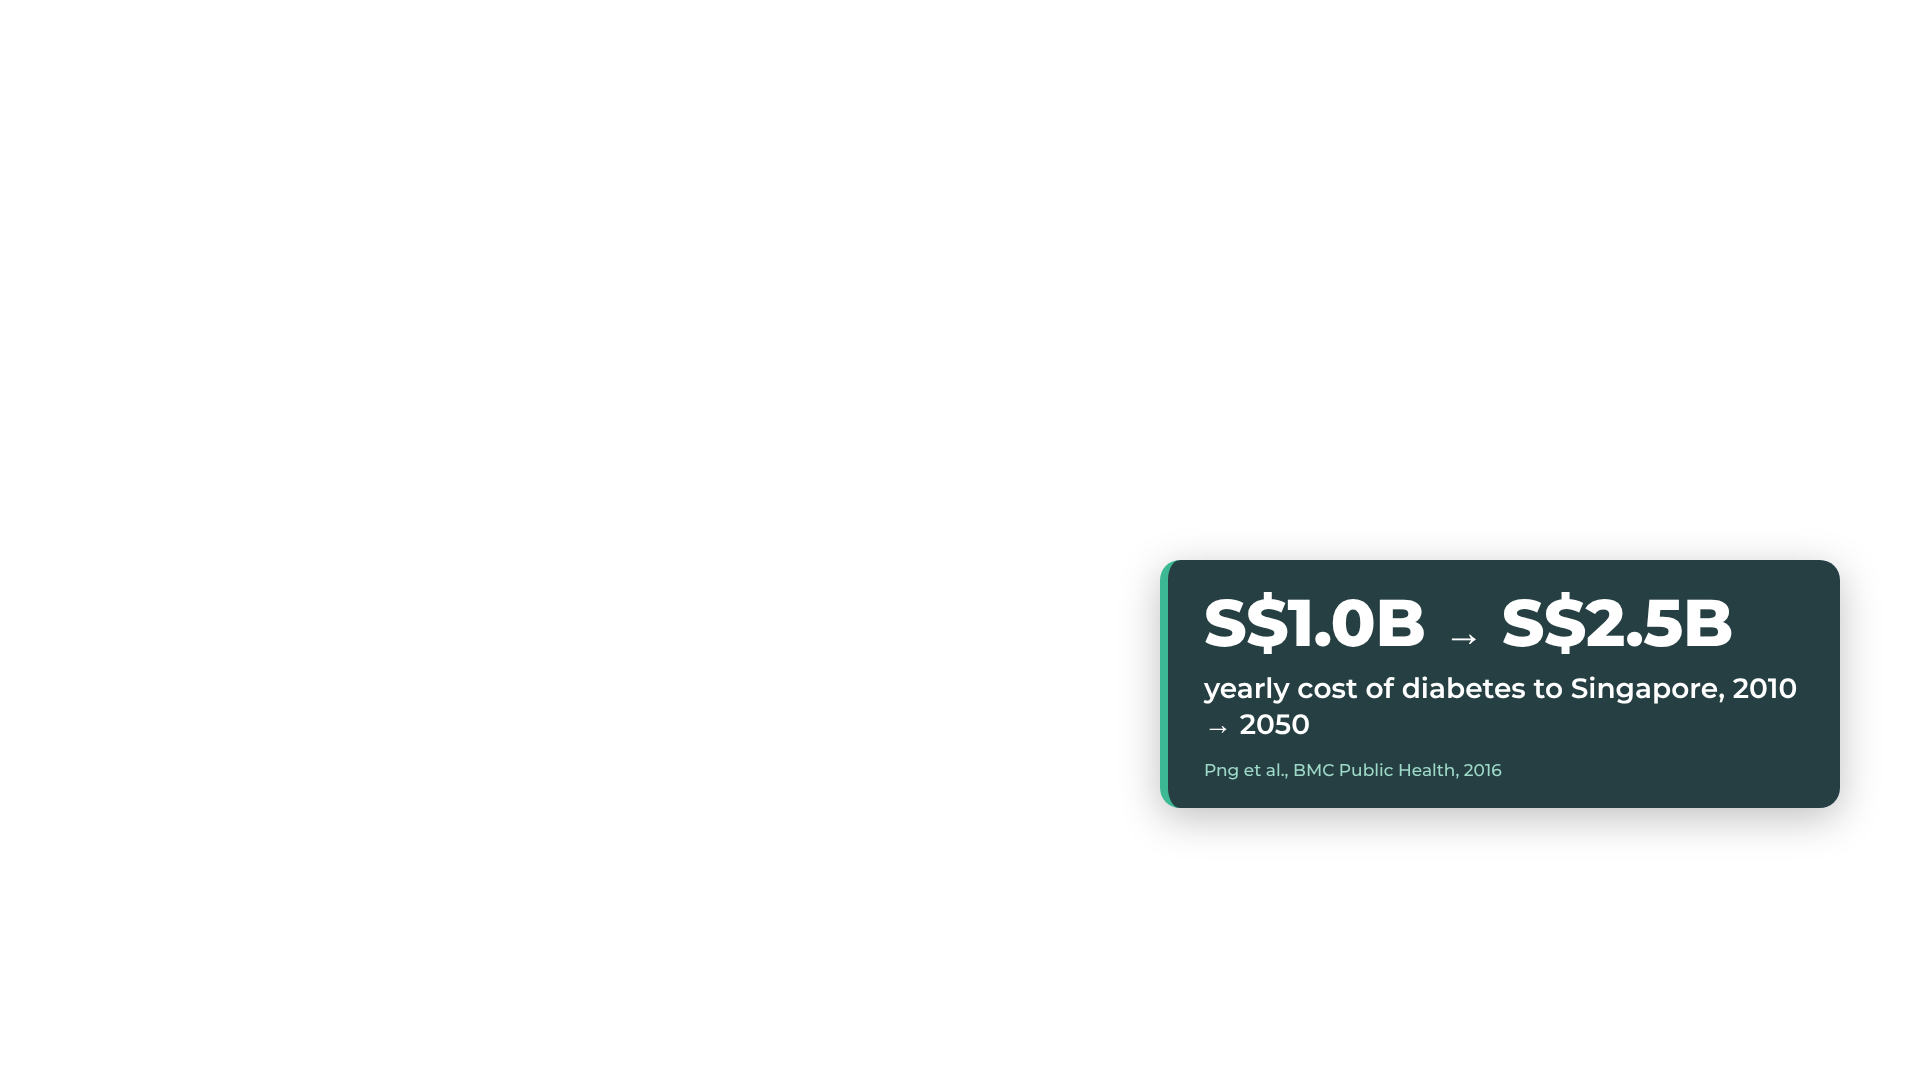
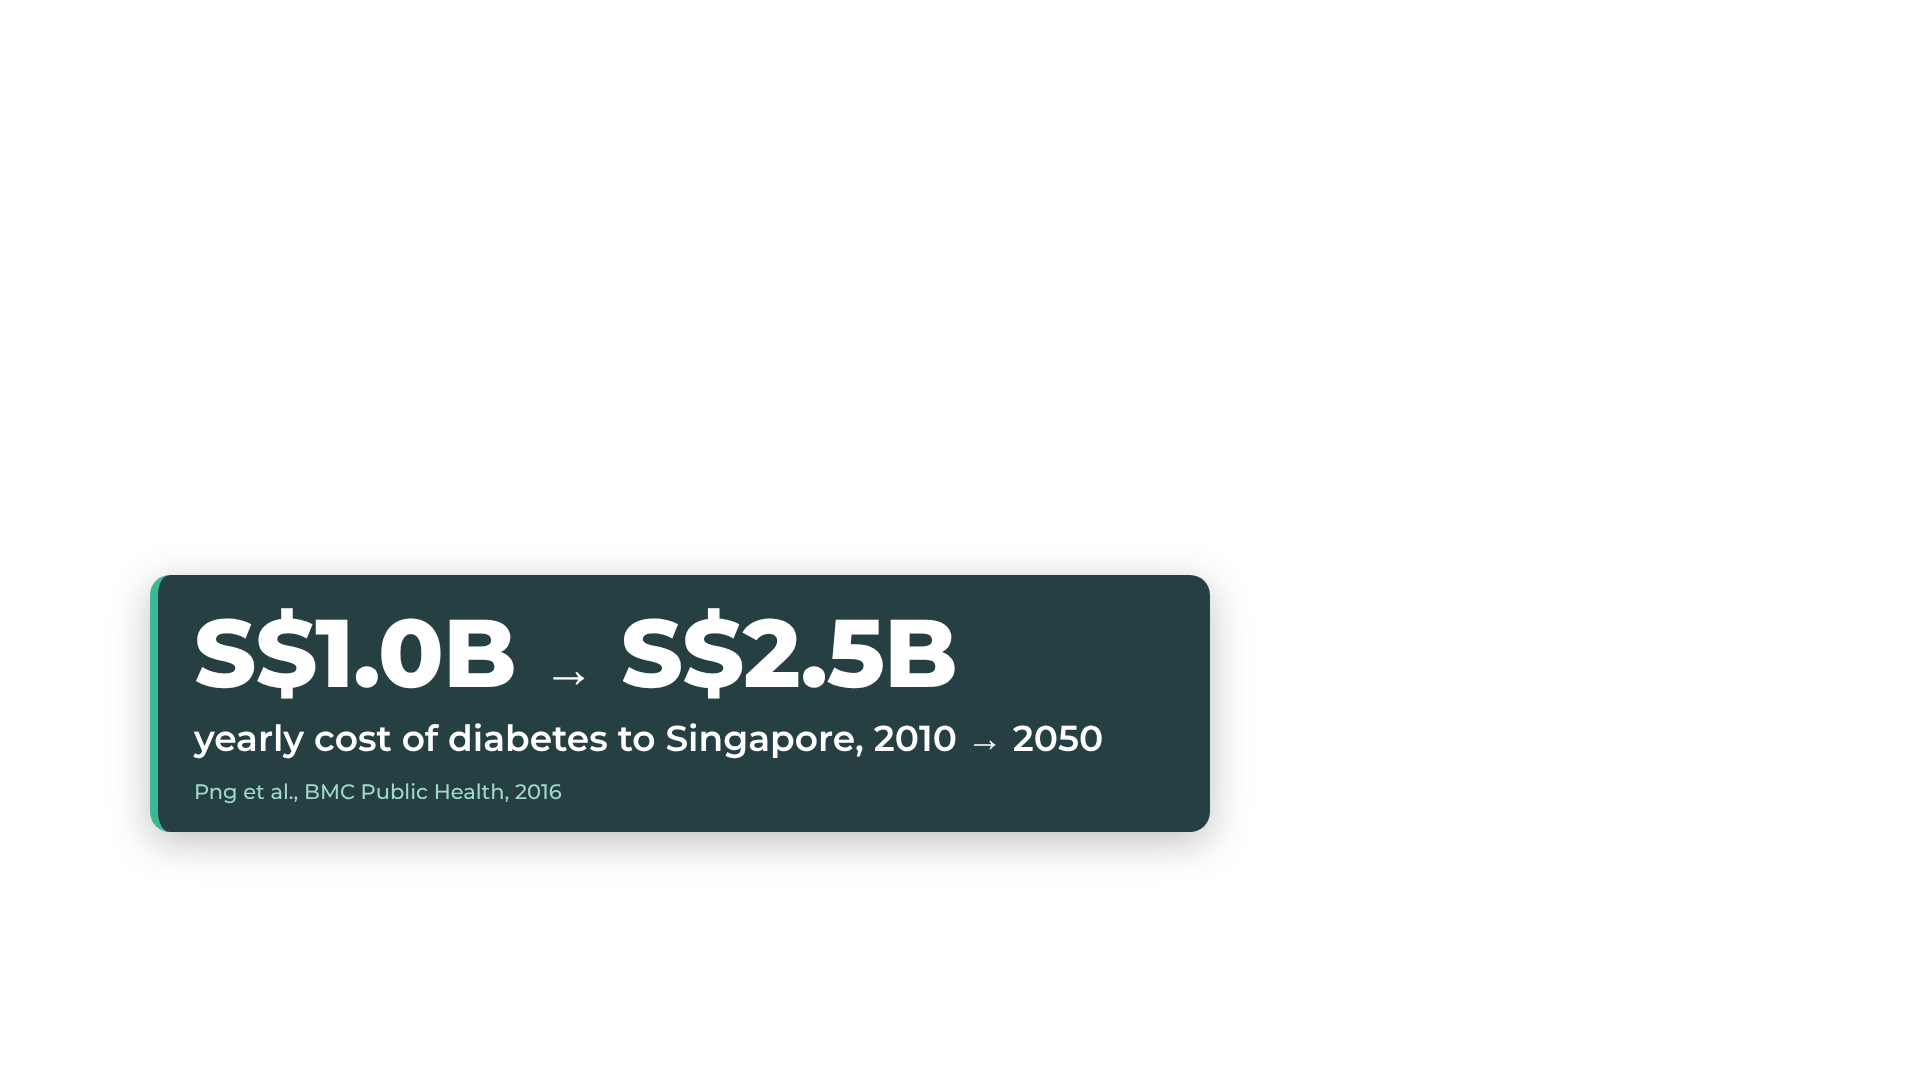
Video: statistics on a slide with the presenter in the corner; drop the price card (v0.13.23)
Claude-Session: https://claude.ai/code/session_01KvS1eRErAfwvtfNx7f33H6

Changed region(s): [[0.0625, 0.5194, 0.9688, 0.7944]]

diff --git a/frontend/src/lib/version.ts b/frontend/src/lib/version.ts
@@ -1,7 +1,10 @@
 /** App version (kept in step with backend/app/version.py) and high-level release notes, newest first. */
-export const APP_VERSION = '0.13.22'
+export const APP_VERSION = '0.13.23'
 
 export const CHANGELOG: { version: string; title: string; changes: string[] }[] = [
+  { version: '0.13.23', title: 'Statistics as slides', changes: [
+    'Behind the scenes: in the presentation video the statistics are shown on a slide with the presenter in the lower-right corner, and the price card is dropped; no change to the app',
+  ] },
   { version: '0.13.22', title: 'Title, statistics and closing cards', changes: [
     'Behind the scenes: the presentation video opens on a title card, shows the statistics as they are spoken, and closes on a MealSenseAI card; no change to the app',
   ] },

diff --git a/demo/voice.py b/demo/voice.py
@@ -450,7 +450,7 @@ def card(image: Path, seconds: float, out: Path) -> None:
 
 
 def card_times(src: Path, text: str, overlays: list[dict]) -> list[tuple[float, Path]]:
-    """When each statistic card appears in a camera take: at the share of the speech where its words fall
+    """When each statistic card appears on its slide: at the share of the speech where its words fall
     (speech is near enough even in pace), a moment early so the number is up as it is said."""
     s0, s1 = speech_bounds(src)
     words = text.split()
@@ -464,22 +464,35 @@ def card_times(src: Path, text: str, overlays: list[dict]) -> list[tuple[float, 
     return out
 
 
-def overlay_cards(piece: Path, cards: list[tuple[float, Path]]) -> None:
-    """Statistic cards over a camera take (full-frame transparent images): each fades in when its words are
-    spoken and stays until the take ends."""
+def stats_slide(piece: Path, cards: list[tuple[float, Path]], background: Path) -> None:
+    """A camera take that gives numbers: from the first number on, the take moves to the lower-right corner of a
+    slide (as over the demo) and each statistic card fades in on the slide as its words are spoken. When the first
+    number comes within two seconds, the whole take is the slide."""
     length = duration(piece)
-    inputs, chain, last = ["-i", str(piece)], [], "0:v"
-    for n, (at, image) in enumerate(cards, 1):
-        at = min(max(0.0, at), max(0.0, length - 1.5))
-        out = max(at + 0.5, length - 0.6)
+    first = min(at for at, _ in cards)
+    switch = 0.0 if first < 2.0 else min(first, length - 1.0) - 0.2
+    fit = f"fps=30,format=yuv420p,setsar=1,settb=AVTB"
+    inputs = ["-i", str(piece), "-loop", "1", "-framerate", "30", "-t", f"{length:.3f}", "-i", str(background)]
+    chain = ["[0:v]split[full][cam]",
+             f"[cam]scale={PIP_W}:-2,pad=iw+6:ih+6:3:3:color=white[pip]", "[1:v]format=rgba[s1]"]
+    last = "s1"
+    for n, (at, image) in enumerate(cards, 2):
+        at = min(max(switch, at), max(0.0, length - 1.5))
         inputs += ["-loop", "1", "-framerate", "30", "-t", f"{length:.3f}", "-i", str(image)]
-        chain.append(f"[{n}:v]format=rgba,fade=t=in:st={at:.3f}:d=0.5:alpha=1,fade=t=out:st={out:.3f}:d=0.4:alpha=1[c{n}]")
-        chain.append(f"[{last}][c{n}]overlay=0:0:eof_action=pass[v{n}]")
-        last = f"v{n}"
-    tmp = piece.with_name(piece.stem + "-cards.mp4")
-    run("ffmpeg", "-y", "-loglevel", "error", *inputs, "-filter_complex", ";".join(chain) + f";[{last}]format=yuv420p[out]",
+        chain.append(f"[{n}:v]format=rgba,fade=t=in:st={at:.3f}:d=0.5:alpha=1[c{n}]")
+        chain.append(f"[{last}][c{n}]overlay=0:0[s{n}]")
+        last = f"s{n}"
+    chain.append(f"[{last}][pip]overlay=W-w-{PIP_MARGIN}:H-h-{PIP_MARGIN},"
+                 f"fade=t=out:st={max(0.0, length - 0.25):.3f}:d=0.25,{fit}[slide]")
+    if switch <= 0:
+        chain.append("[full]nullsink;[slide]copy[out]")
+    else:
+        chain.append(f"[full]{fit}[a];[slide]trim=start={switch:.3f},setpts=PTS-STARTPTS[b];"
+                     f"[a][b]xfade=transition=fade:duration=0.4:offset={switch:.3f}[out]")
+    tmp = piece.with_name(piece.stem + "-slide.mp4")
+    run("ffmpeg", "-y", "-loglevel", "error", *inputs, "-filter_complex", ";".join(chain),
         "-map", "[out]", "-map", "0:a", "-t", f"{length:.3f}", "-c:v", "libx264", "-preset", "medium", "-crf", "20",
-        "-c:a", "copy", str(tmp))
+        "-pix_fmt", "yuv420p", "-c:a", "copy", str(tmp))
     tmp.replace(piece)
 
 
@@ -528,8 +541,9 @@ def splice() -> None:
                 note = ""
                 if overlays:
                     cards = card_times(src, " ".join(l["text"] for l in covered), overlays)
-                    overlay_cards(out, cards)
-                    note = "  cards at " + ", ".join(f"{t:.1f}s" for t, _ in cards)
+                    slide = next((l["slide"] for l in covered if l.get("slide")), "cards/stats-bg.png")
+                    stats_slide(out, cards, SRC / slide)
+                    note = "  slide, cards at " + ", ".join(f"{t:.1f}s" for t, _ in cards)
                 pieces.append(out)
                 print(f"  camera {line:02}{'-' + format(last, '02') if last != line else ''}  {src.name}  {duration(out):.1f}s{note}")
                 line = last + 1

diff --git a/backend/app/version.py b/backend/app/version.py
@@ -1,1 +1,1 @@
-APP_VERSION = "0.13.22"   # kept in step with frontend/src/lib/version.ts
+APP_VERSION = "0.13.23"   # kept in step with frontend/src/lib/version.ts

diff --git a/docs/TEST_REPORT.md b/docs/TEST_REPORT.md
@@ -232,3 +232,12 @@ Executed locally (CPU, Python venv + PostgreSQL 16, built frontend served by the
 | Frames from that cut | **PASS**: title card; first card only at 4 s into the take; both cards at 10 s; closing card |
 | `run.sh splice` with Docker stubbed | **PASS**: picks the latest build, copies the current script into it, runs the splice; refuses a folder without recordings |
 | Not run here | The Buddy re-splice with the real takes |
+
+## v0.13.23: statistics as slides (30 Oct 2026)
+
+| Test | Result |
+|---|---|
+| "burden" stand-in take (first number at 1.4 s) | **PASS**: whole take is the slide, take in the lower-right corner, both cards fade in; 24.97 s video, 24.99 s audio |
+| A 40 s stand-in take with its number at 31.6 s | **PASS**: full screen, then fades to the slide; 39.97 s video, 39.99 s audio |
+| Both joined with `-c copy` | **PASS**: 65.0 s, no drift |
+| Not run here | The Buddy re-splice with the real takes |

diff --git a/CHANGELOG.md b/CHANGELOG.md
@@ -2,6 +2,13 @@
 
 High-level changes per release. The running version is shown next to the logo and on the About page.
 
+## v0.13.23 — Statistics as slides (no app change)
+
+- A camera line with `overlays` now becomes a slide (`cards/stats-bg.png`) with the take in the lower-right corner,
+  as over the demo, and the cards fade in on the slide. If the first number comes within two seconds the whole take
+  is the slide; otherwise the take plays full screen and fades to the slide at the first number.
+- The price card is dropped: "value" stays full screen. Only "burden" carries statistics (1 in 12; S$1.0B → S$2.5B).
+
 ## v0.13.22 — Title, statistics and closing cards (no app change)
 
 - `demo/cards/`: the title card (the proposal cover, its footer line reset to "Final Presentation"), statistic cards
